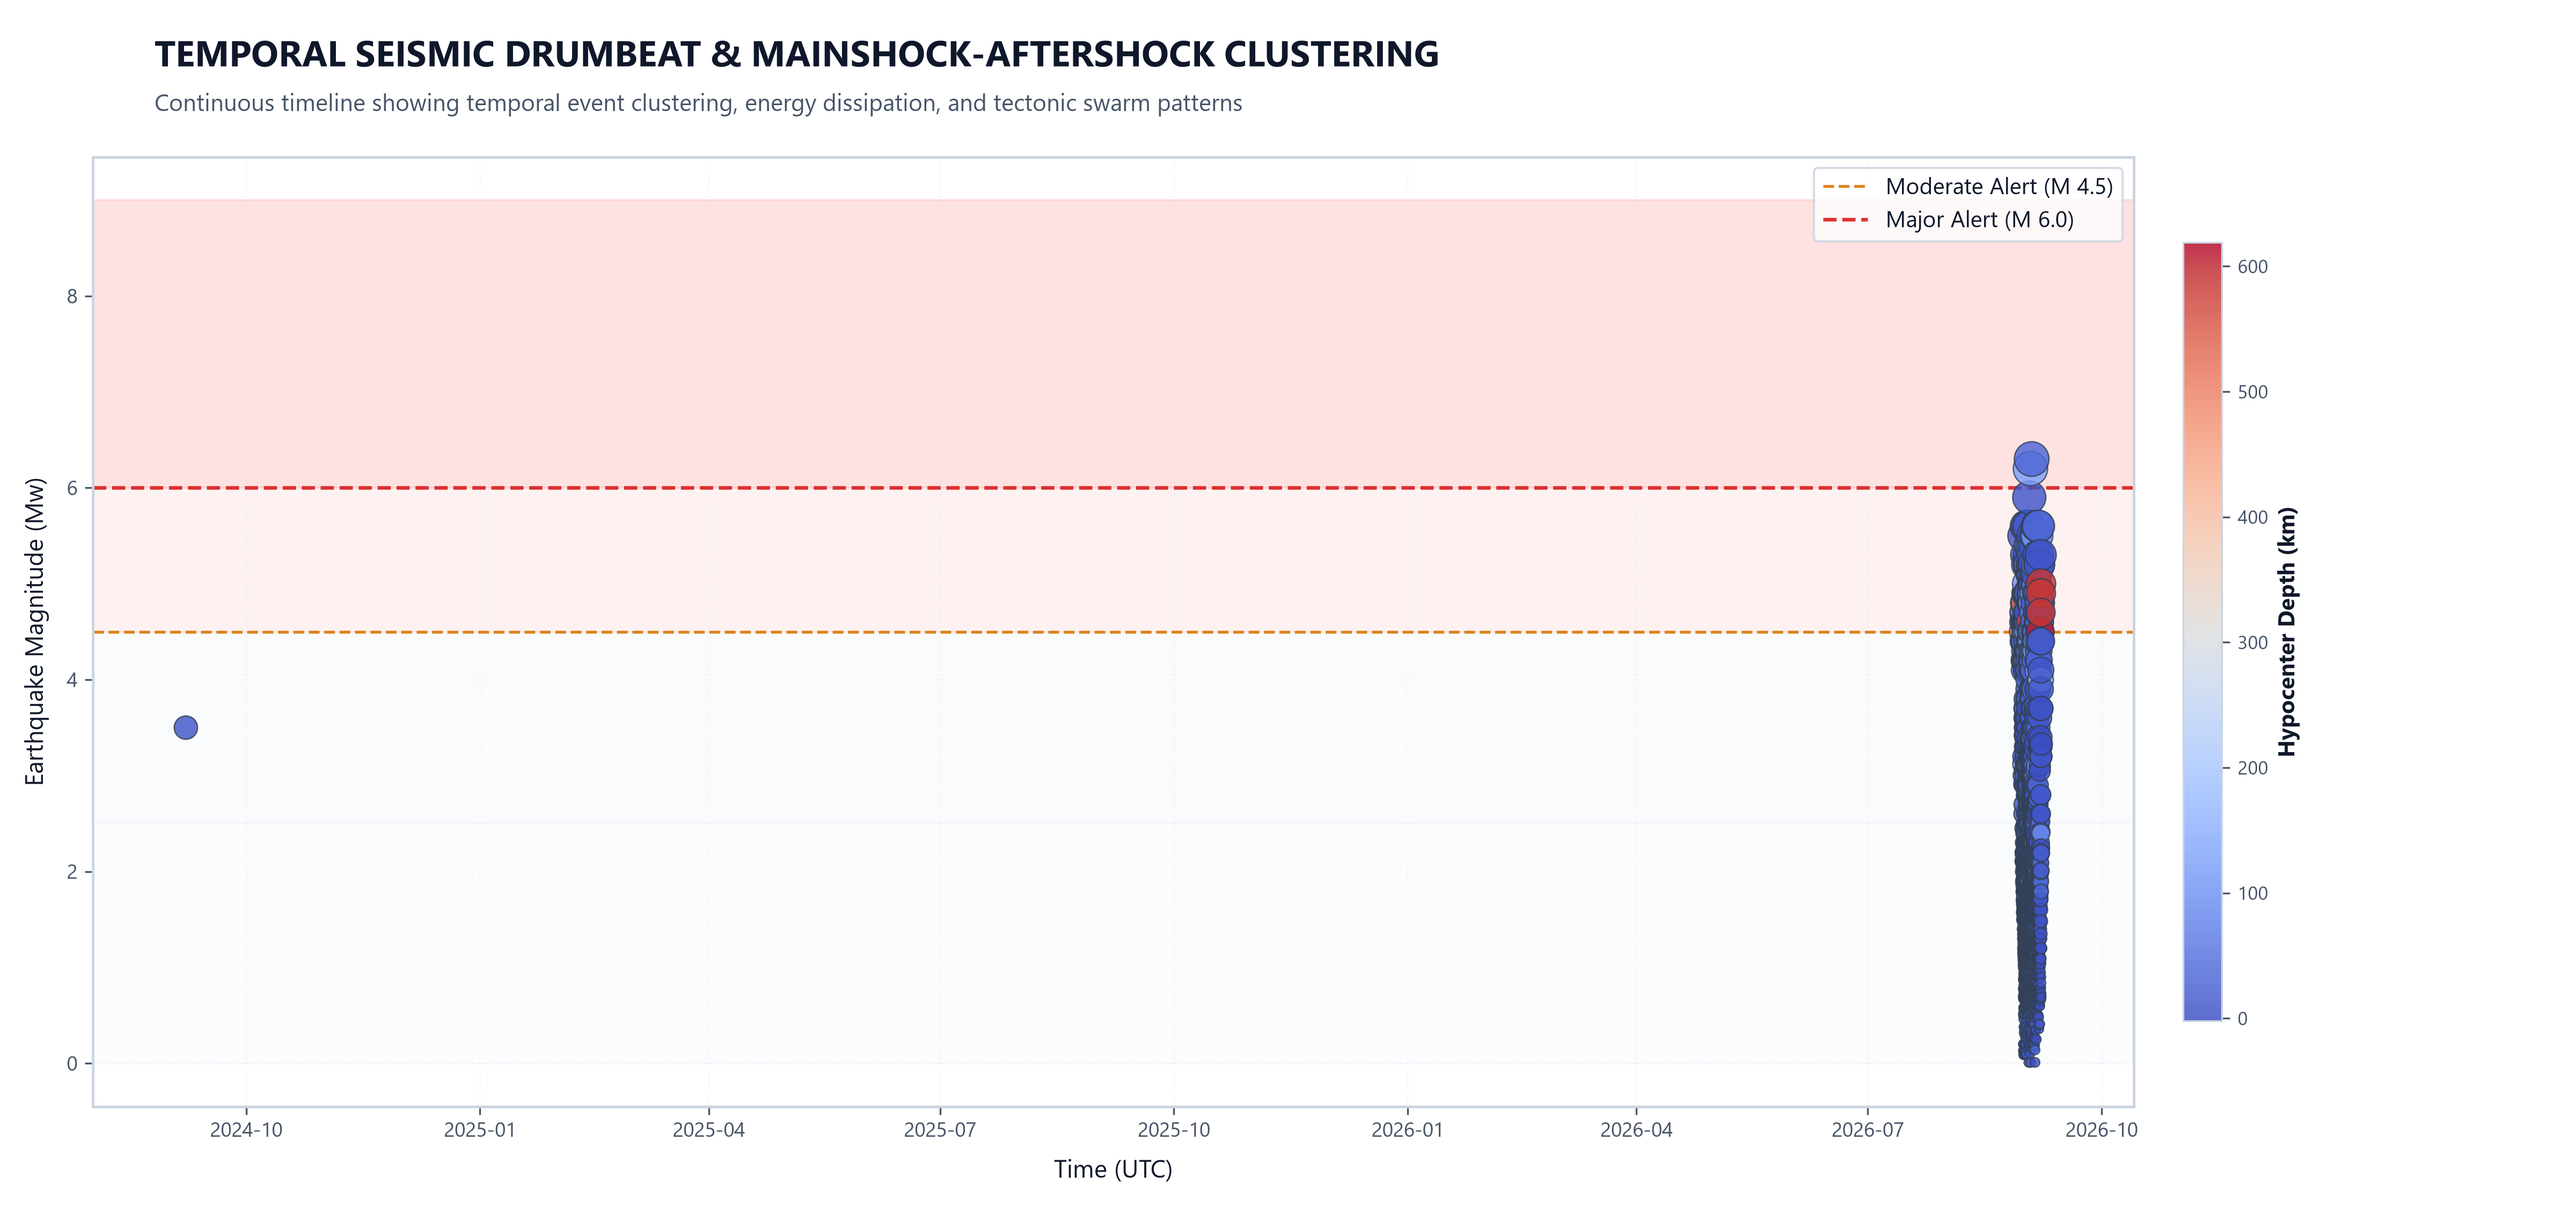
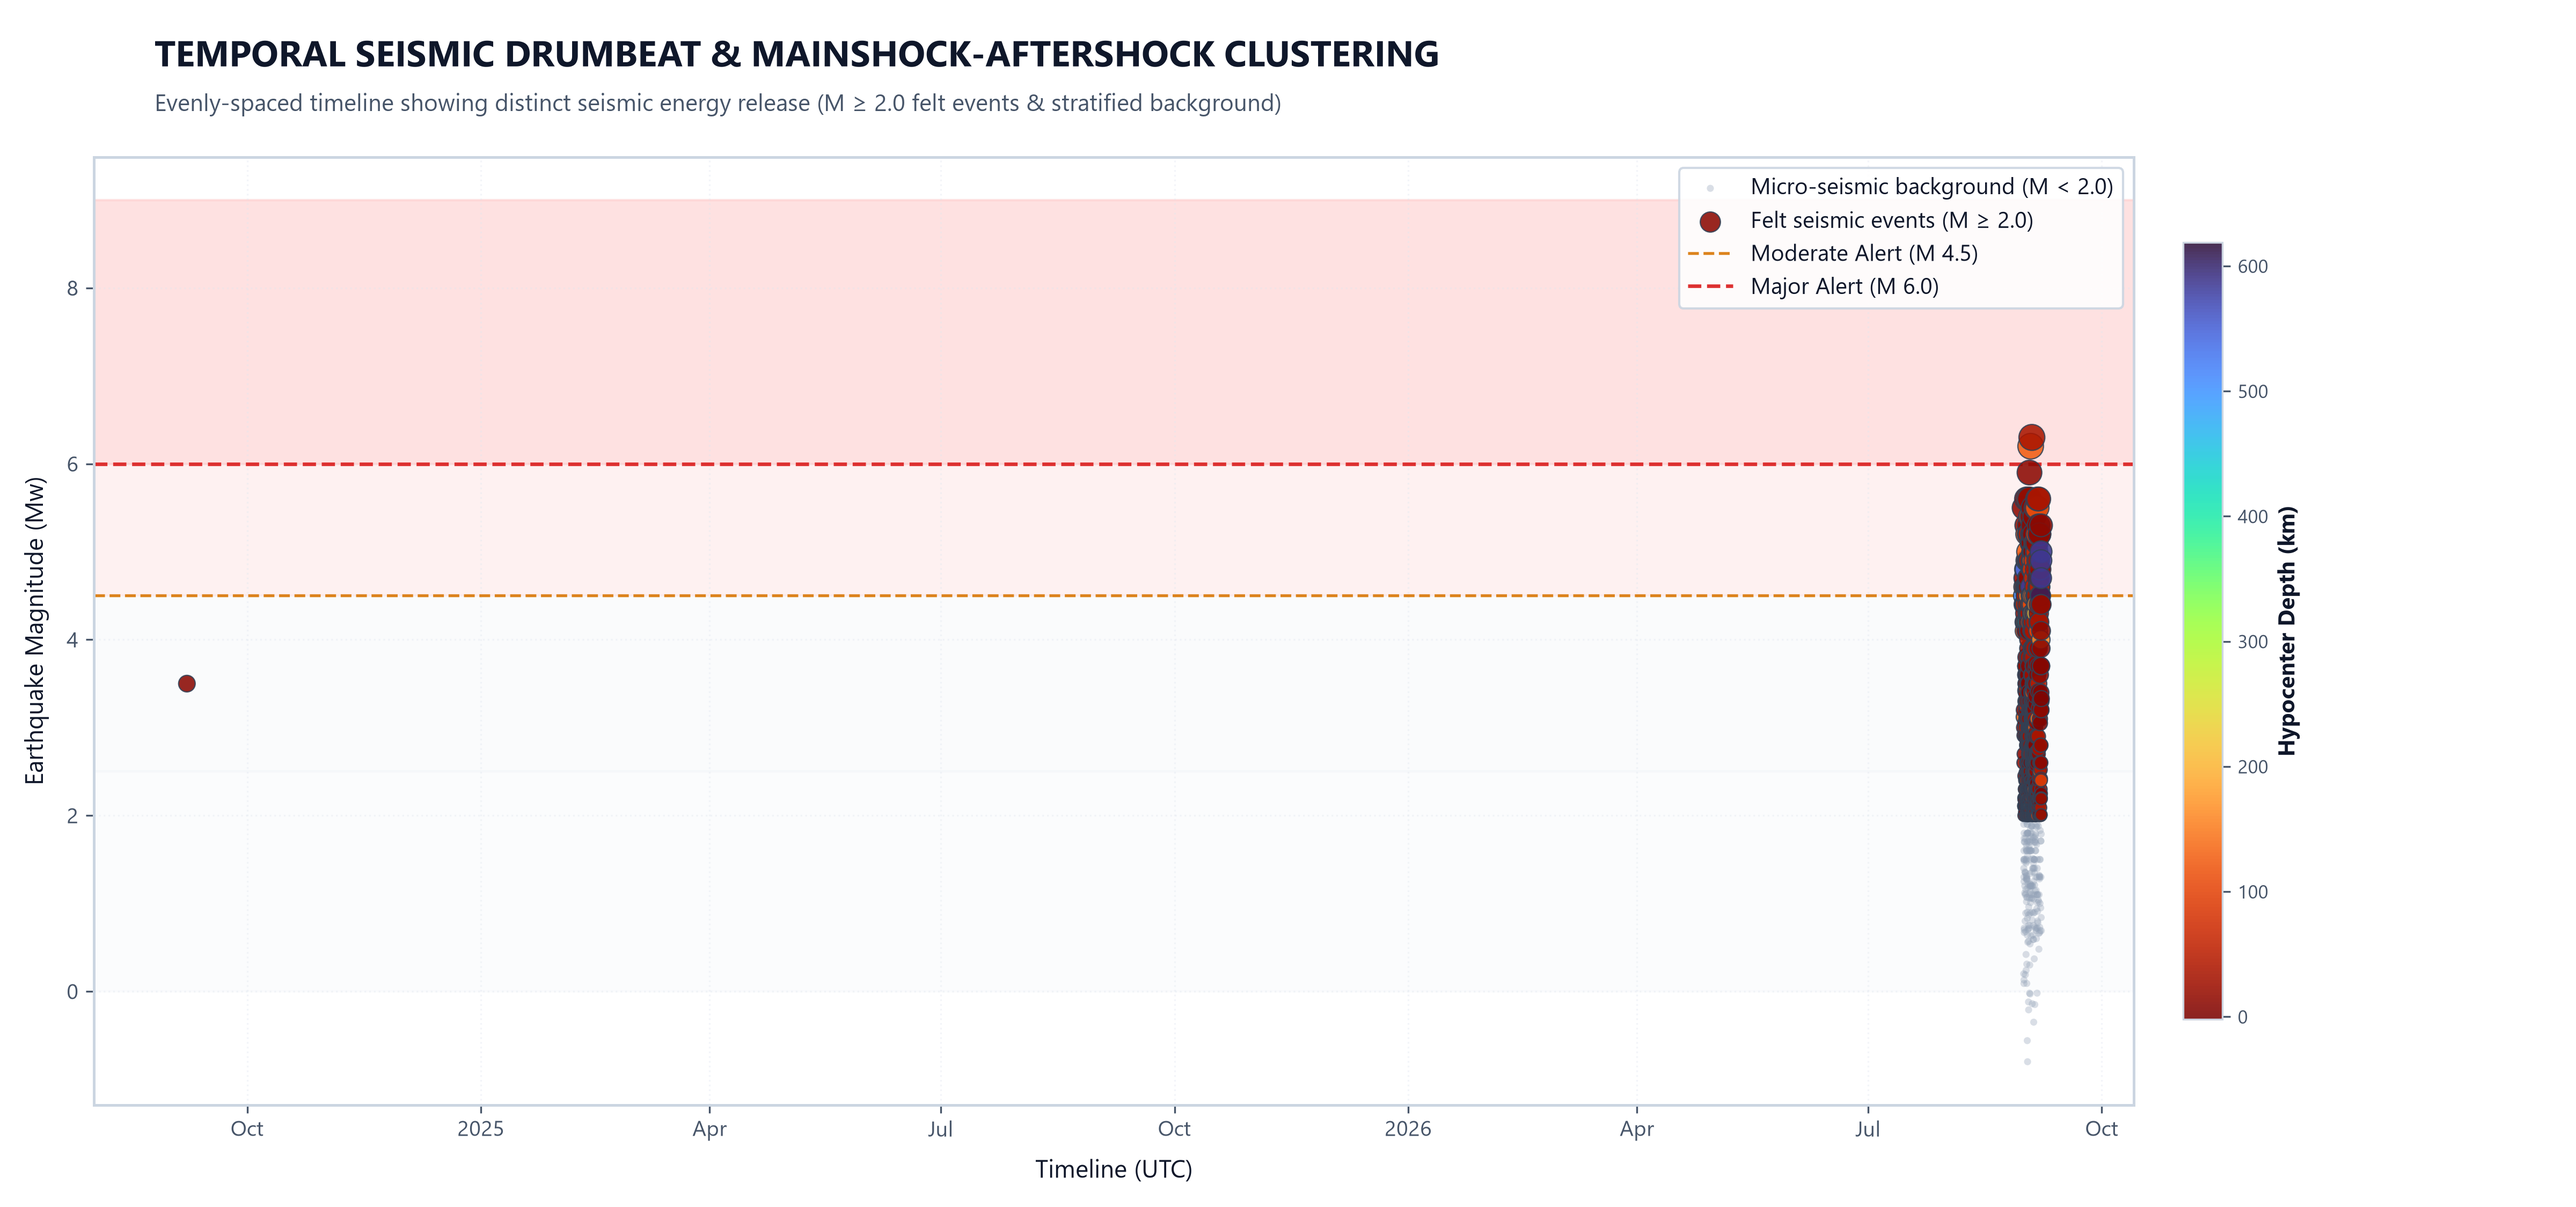
fix(drumbeat-spacing): Stratified event rendering and auto-date locators for clean, evenly-spaced seismic drumbeat strip

diff --git a/viz/charts.py b/viz/charts.py
@@ -198,7 +198,7 @@ def generate_global_seismic_map(df: pd.DataFrame, out_dir: Path, theme: dict):
     print(f"  [OK] Saved: {out_path.name}")
 
 # -----------------------------------------------------------------------------
-# VISUAL 2: Seismic Drumbeat Strip Chart (Clean Dedicated Header & Breathing Room)
+# VISUAL 2: Seismic Drumbeat Strip Chart (Clean Spacing & Stratified Visibility)
 # -----------------------------------------------------------------------------
 def generate_seismic_drumbeat_strip(df: pd.DataFrame, out_dir: Path, theme: dict):
     fig, ax = plt.subplots(figsize=(16, 7.5), dpi=300, facecolor=theme["bg"])
@@ -207,21 +207,46 @@ def generate_seismic_drumbeat_strip(df: pd.DataFrame, out_dir: Path, theme: dict
     # Dedicated header zone with ample breathing room
     fig.text(0.06, 0.945, "TEMPORAL SEISMIC DRUMBEAT & MAINSHOCK-AFTERSHOCK CLUSTERING", 
              color=theme["text_primary"], fontsize=16, fontweight="bold")
-    fig.text(0.06, 0.908, "Continuous timeline showing temporal event clustering, energy dissipation, and tectonic swarm patterns", 
+    fig.text(0.06, 0.908, "Evenly-spaced timeline showing distinct seismic energy release (M ≥ 2.0 felt events & stratified background)", 
              color=theme["text_muted"], fontsize=10.5)
 
-    df_sorted = df.sort_values("dt_utc")
-    
+    df_sorted = df.sort_values("dt_utc").copy()
+
+    # Stratify into felt/notable events (M >= 2.0) and sampled background micro-tremors (M < 2.0)
+    # to eliminate dense overplotting while preserving temporal distribution
+    notable = df_sorted[df_sorted["magnitude"] >= 2.0]
+    micro = df_sorted[df_sorted["magnitude"] < 2.0]
+    if len(micro) > 220:
+        micro = micro.sample(n=220, random_state=42).sort_values("dt_utc")
+
+    # Plot subtle micro background dots
+    if not micro.empty:
+        ax.scatter(
+            micro["dt_utc"],
+            micro["magnitude"],
+            color=theme["text_dim"],
+            s=10,
+            alpha=0.35,
+            edgecolors="none",
+            label="Micro-seismic background (M < 2.0)",
+            zorder=2
+        )
+
+    # Plot notable events with clean, well-proportioned sizes
+    # Marker sizes scaled gently from 28 to 140
+    sizes = np.clip(28.0 + 16.0 * (notable["magnitude"] - 2.0)**1.3, 25, 140)
+
     scatter = ax.scatter(
-        df_sorted["dt_utc"],
-        df_sorted["magnitude"],
-        c=df_sorted["depth_km"],
-        cmap="coolwarm",
-        s=np.clip(20.0 * (df_sorted["magnitude"]**1.35), 18, 400),
-        alpha=0.82,
+        notable["dt_utc"],
+        notable["magnitude"],
+        c=notable["depth_km"],
+        cmap="turbo_r",
+        s=sizes,
+        alpha=0.88,
         edgecolors=theme["point_edge"],
-        linewidths=0.6,
-        zorder=3
+        linewidths=0.55,
+        label="Felt seismic events (M ≥ 2.0)",
+        zorder=4
     )
 
     # Shaded alert bands
@@ -233,16 +258,23 @@ def generate_seismic_drumbeat_strip(df: pd.DataFrame, out_dir: Path, theme: dict
     ax.axhline(4.5, color="#d97706", linestyle="--", linewidth=1.3, alpha=0.9, label="Moderate Alert (M 4.5)")
     ax.axhline(6.0, color="#dc2626", linestyle="--", linewidth=1.6, alpha=0.95, label="Major Alert (M 6.0)")
 
+    # Format Date Ticks cleanly on X-axis
+    import matplotlib.dates as mdates
+    locator = mdates.AutoDateLocator(minticks=5, maxticks=10)
+    formatter = mdates.ConciseDateFormatter(locator)
+    ax.xaxis.set_major_locator(locator)
+    ax.xaxis.set_major_formatter(formatter)
+
     cbar = plt.colorbar(scatter, ax=ax, pad=0.02, shrink=0.82)
     cbar.set_label("Hypocenter Depth (km)", color=theme["text_primary"], fontsize=10, fontweight="bold")
     cbar.ax.tick_params(colors=theme["text_muted"], labelsize=8.5)
     cbar.outline.set_edgecolor(theme["border"])
 
     ax.set_ylabel("Earthquake Magnitude (Mw)", color=theme["text_primary"], fontsize=11, labelpad=8)
-    ax.set_xlabel("Time (UTC)", color=theme["text_primary"], fontsize=11, labelpad=8)
-    ax.tick_params(colors=theme["text_muted"], labelsize=9)
+    ax.set_xlabel("Timeline (UTC)", color=theme["text_primary"], fontsize=11, labelpad=8)
+    ax.tick_params(colors=theme["text_muted"], labelsize=9.5)
     ax.grid(True, linestyle=":", alpha=0.4, color=theme["grid"])
-    ax.legend(facecolor=theme["surface"], edgecolor=theme["border"], labelcolor=theme["text_primary"], loc="upper right")
+    ax.legend(facecolor=theme["surface"], edgecolor=theme["border"], labelcolor=theme["text_primary"], loc="upper right", framealpha=0.9)
 
     for spine in ax.spines.values():
         spine.set_color(theme["border"])
